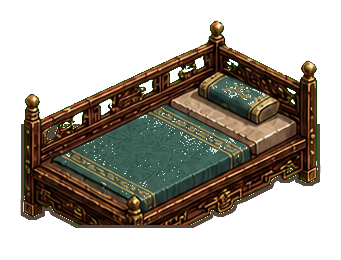
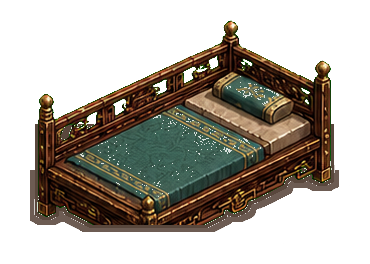
Fix expanded home exterior and advanced bed

Changed region(s): [[0.0587, 0.0615, 0.9384, 0.8923], [0.4692, 0.6462, 0.4985, 0.6769], [0.3226, 0.5538, 0.3519, 0.5846]]

diff --git a/src/game.js b/src/game.js
@@ -13,7 +13,7 @@
   var FURN_SCALE = 0.78;        // 人物显示高不变，家具视觉缩小到更接近参考图比例
   var WALL_ROWS = 16, ROW_PX = 11; // 墙高 16 小格档，每档像素
   var WALL_PX = WALL_ROWS * ROW_PX;
-  var MARGIN = 40, HEAD = 120, YARD = 16; // 边距 / 家具顶部留白 / 院景边界格数
+  var MARGIN = 40, HEAD = 120, YARD = 24; // 边距 / 家具顶部留白 / 院景边界格数
   var PLAYER_CELLS = 4;
   var OX = MARGIN + (GH + YARD) * HW;
   var OY = MARGIN + WALL_PX + HEAD;
@@ -25,7 +25,7 @@
   // 物品目录（占格 w×h，画面高度另给 zh；fixed 不可拖；func 功能件）
   var CATALOG = [
     { id: "bed_basic", name: "普通床", cat: "bed", w: 10, h: 18, zh: 24, func: "bed", heal: 1.2, cure: 0.4, glyph: "🛏", color: "#8a6240" },
-    { id: "bed_advanced", name: "高级床", cat: "bed", w: 12, h: 22, zh: 32, func: "bed", heal: 3.5, cure: 1.4, glyph: "🛏", color: "#a8743e" },
+    { id: "bed_advanced", name: "高级床", cat: "bed", w: 22, h: 12, zh: 32, func: "bed", heal: 3.5, cure: 1.4, glyph: "🛏", color: "#a8743e" },
     { id: "meditation_dais", name: "打坐台", cat: "func", w: 12, h: 12, zh: 16, fixed: true, func: "meditate", neigong: 1.2, glyph: "🧘", color: "#5f7298" },
     { id: "chair_round", name: "圈椅", cat: "chair", w: 5, h: 5, zh: 26, glyph: "🪑", color: "#6a4a30" },
     { id: "chair_bench", name: "长凳", cat: "chair", w: 9, h: 4, zh: 14, glyph: "🪵", color: "#6a4a30" },
@@ -447,7 +447,7 @@
   }
   function drawCourtyard() {
     ctx.fillStyle = "#1c2a16"; ctx.fillRect(0, 0, CW, CH);
-    var c = quad(-4, -4, GW + 8, GH + 8);
+    var c = quad(-YARD, -YARD, GW + YARD * 2, GH + YARD * 2);
     poly(c); ctx.fillStyle = "#4f7a40"; ctx.fill();
     if (env.courtyard) {
       ctx.save(); ctx.clip();
@@ -462,8 +462,8 @@
     // 院景点缀（占位，真图待美术）
     ctx.font = "20px sans-serif"; ctx.textAlign = "center";
     var deco = ["🌳", "🌲", "🌸", "🪨", "🌿", "🌷"];
-    for (var i = 0; i < GW + 8; i += 6) { var t = v(i - 4, -4); ctx.fillText(deco[(i / 6) % deco.length], t.x, t.y - 2); var bsp = v(i - 4, GH + 4); ctx.fillText(deco[(i / 6 + 2) % deco.length], bsp.x, bsp.y + 6); }
-    for (var j = 0; j < GH + 8; j += 6) { var l = v(-4, j - 4); ctx.fillText(deco[(j / 6) % deco.length], l.x, l.y); var r = v(GW + 4, j - 4); ctx.fillText(deco[(j / 6 + 3) % deco.length], r.x, r.y); }
+    for (var i = -YARD; i < GW + YARD; i += 6) { var t = v(i, -YARD); ctx.fillText(deco[((i + YARD) / 6) % deco.length], t.x, t.y - 2); var bsp = v(i, GH + YARD); ctx.fillText(deco[((i + YARD) / 6 + 2) % deco.length], bsp.x, bsp.y + 6); }
+    for (var j = -YARD; j < GH + YARD; j += 6) { var l = v(-YARD, j); ctx.fillText(deco[((j + YARD) / 6) % deco.length], l.x, l.y); var r = v(GW + YARD, j); ctx.fillText(deco[((j + YARD) / 6 + 3) % deco.length], r.x, r.y); }
   }
   function render() {
     ctx.clearRect(0, 0, CW, CH);

diff --git a/tools/regenerate_home_assets_task39.py b/tools/regenerate_home_assets_task39.py
@@ -29,7 +29,7 @@ STONE = (105, 96, 82, 255)
 
 CATALOG = {
     "bed_basic": ("bed", 10, 18, 24),
-    "bed_advanced": ("bed", 12, 22, 32),
+    "bed_advanced": ("bed", 22, 12, 32),
     "meditation_dais": ("func", 12, 12, 16),
     "chair_round": ("chair", 5, 5, 26),
     "chair_bench": ("chair", 9, 4, 14),
@@ -624,6 +624,45 @@ def reinforce_bed_base(im: Image.Image) -> Image.Image:
     return trim_alpha(under, 8)
 
 
+def solid_bbox(im: Image.Image, threshold: int = 51):
+    im = im.convert("RGBA")
+    alpha = im.getchannel("A")
+    pix = alpha.load()
+    xs, ys = [], []
+    for y in range(im.height):
+        for x in range(im.width):
+            if pix[x, y] > threshold:
+                xs.append(x)
+                ys.append(y)
+    if not xs:
+        return None
+    return min(xs), min(ys), max(xs) + 1, max(ys) + 1
+
+
+def reinforce_bed_visible_corners(im: Image.Image) -> Image.Image:
+    im = im.convert("RGBA")
+    box = solid_bbox(im)
+    if not box:
+        return im
+    x0, y0, x1, y1 = box
+    w, h = x1 - x0, y1 - y0
+    alpha = im.getchannel("A")
+    expanded = alpha.filter(ImageFilter.MaxFilter(11))
+    out = im.copy()
+    opx = out.load()
+    apx = alpha.load()
+    epx = expanded.load()
+    wood = (54, 31, 18)
+    for y in range(max(0, int(y0 + h * 0.58)), min(im.height, y1 + 4)):
+        for x in range(max(0, x0 - 4), min(im.width, x1 + 4)):
+            lower = y > y1 - h * 0.28
+            corner = x < x0 + w * 0.24 or x > x1 - w * 0.24
+            under_rail = y > y1 - h * 0.16
+            if (lower and corner or under_rail) and epx[x, y] and not apx[x, y]:
+                opx[x, y] = (wood[0], wood[1], wood[2], min(185, epx[x, y]))
+    return trim_alpha(out, 8)
+
+
 def add_canvas_padding(im: Image.Image, pad: int = 14) -> Image.Image:
     im = im.convert("RGBA")
     out = Image.new("RGBA", (im.width + pad * 2, im.height + pad * 2), (0, 0, 0, 0))
@@ -721,7 +760,12 @@ def postprocess_asset_shapes():
     for p in (ASSETS / "table").glob("table_square*.png"):
         break_hard_bbox_edges(Image.open(p), left=True, right=True).save(p)
     for p in (ASSETS / "bed").glob("bed_advanced*.png"):
-        break_hard_bbox_edges(reinforce_bed_base(Image.open(p)), bottom=True).save(p)
+        break_hard_bbox_edges(
+            reinforce_bed_visible_corners(reinforce_bed_base(Image.open(p))),
+            bottom=True,
+            left=True,
+            right=True,
+        ).save(p)
     for p in (ASSETS / "chair").glob("chair_taishi*.png"):
         break_hard_bbox_edges(Image.open(p), top=True).save(p)
     for p in (ASSETS / "chair").glob("chair_round*.png"):
